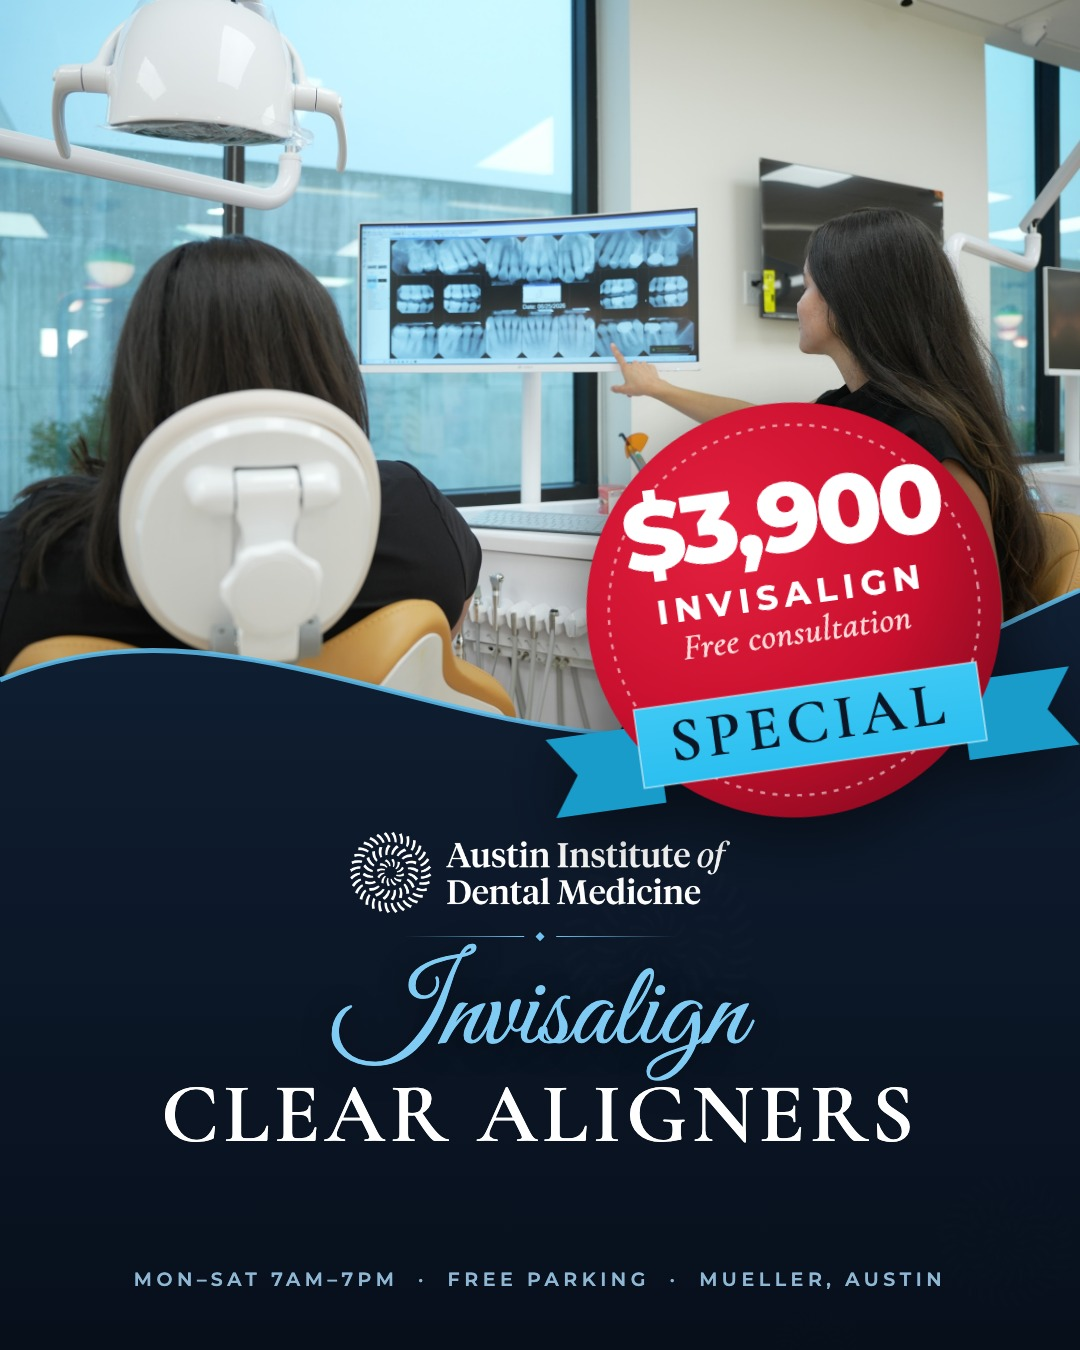
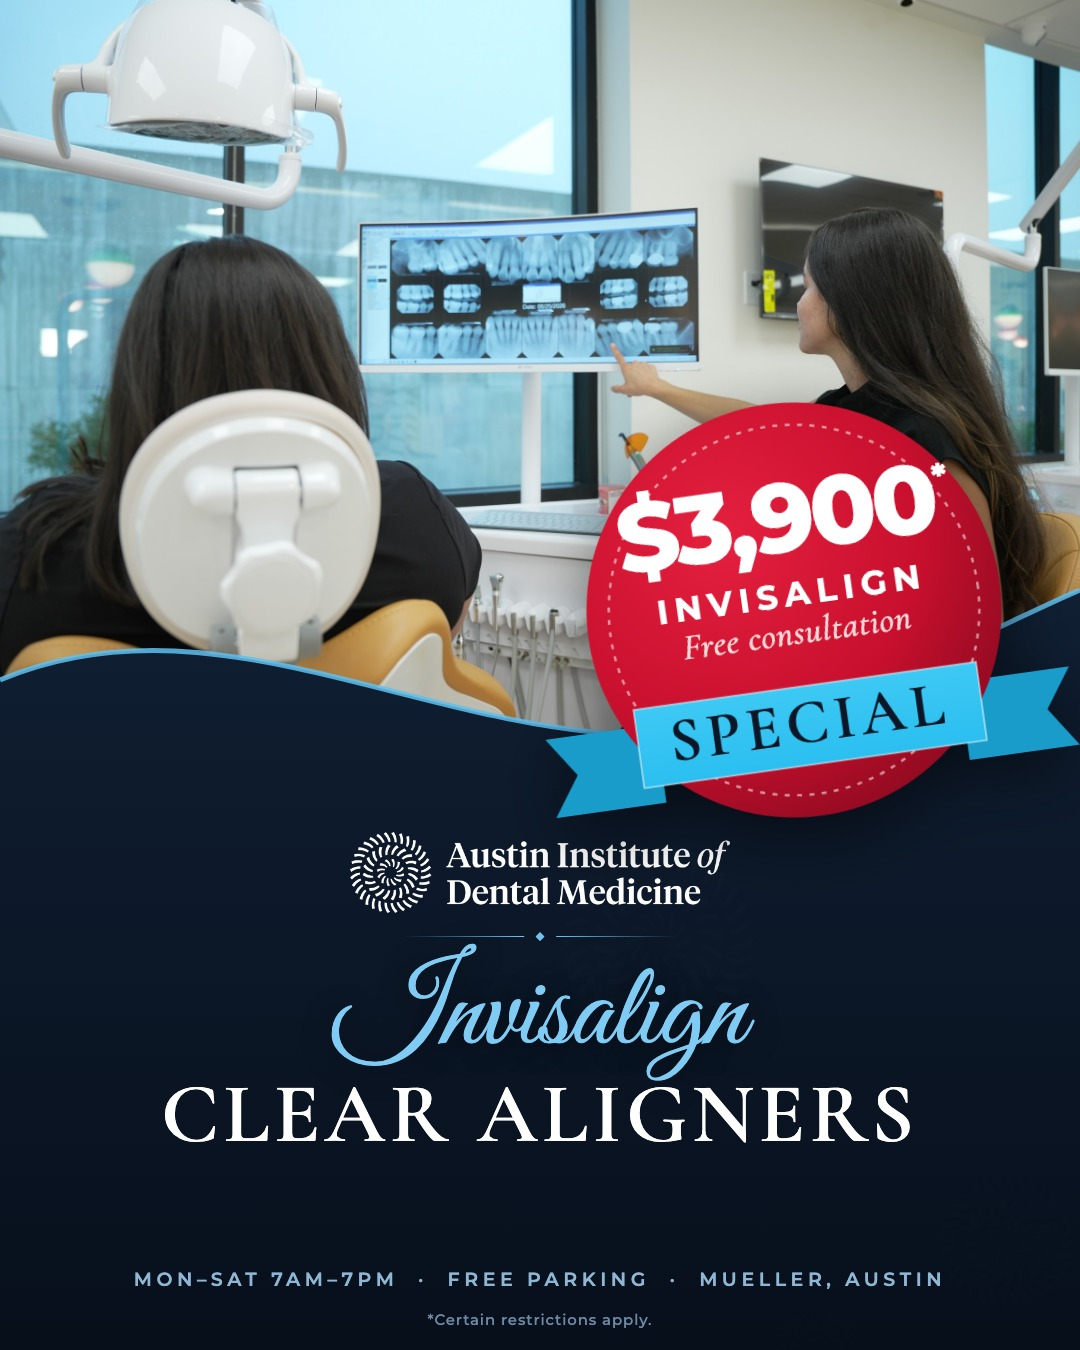
Add price asterisk and restrictions fine print to every offer creative

Changed region(s): [[0.55, 0.3422, 0.8861, 0.4356], [0.4889, 0.9644, 0.5806, 0.9956], [0.3972, 0.9644, 0.4583, 0.9956]]

diff --git a/tools/meta/build_creatives.py b/tools/meta/build_creatives.py
@@ -103,7 +103,7 @@ SPECS = {
         badge='circle', price='$100', badge_top='PACIENTE NUEVO', badge_bottom='PROMOCI&Oacute;N',
         badge_note='Examen + radiografías',
         script='Ahora aceptamos', caps='Pacientes Nuevos',
-        tagline='', note='Hablamos español',
+        tagline='', note='Hablamos español', fine='*Aplican ciertas restricciones.',
         hours='Lun&ndash;S&aacute;b 7am&ndash;7pm &nbsp;&middot;&nbsp; Estacionamiento gratis &nbsp;&middot;&nbsp; Mueller, Austin',
     ),
     'c2': dict(
@@ -133,6 +133,8 @@ body{width:1080px;height:1350px;overflow:hidden;background:#0b1727;font-family:'
 .tag{position:absolute;left:0;right:0;top:1170px;text-align:center;font-style:italic;font-weight:500;font-size:40px;color:#9fd8f7}
 .note{position:absolute;left:0;right:0;top:calc(1168px + var(--y));text-align:center;font-style:italic;font-weight:500;font-size:34px;color:#9fd8f7}
 .a1 .note{top:1214px;font-size:32px}
+.badge .p sup{font-size:.34em;vertical-align:baseline;position:relative;top:-1.3em;margin-left:.03em;font-weight:800}
+.fine{position:absolute;left:0;right:0;top:1310px;text-align:center;font-family:Montserrat,sans-serif;font-weight:500;font-size:15px;letter-spacing:.06em;color:#6f8aa6}
 .hours{position:absolute;left:0;right:0;top:1268px;text-align:center;font-family:Montserrat,sans-serif;font-weight:600;font-size:19px;letter-spacing:.24em;color:#8fb6d3;text-transform:uppercase}
 
 
@@ -171,7 +173,7 @@ body{width:1080px;height:1350px;overflow:hidden;background:#0b1727;font-family:'
 .circle .n{margin-top:calc(var(--s) * .02)}
 .circle.long .txt{padding-bottom:calc(var(--s) * .24)}
 .badge .pre{font-weight:700;font-size:calc(var(--s) * .055);letter-spacing:.3em;color:#ffd9d9;margin-bottom:calc(var(--s) * -.01)}
-.circle.xlong .p{font-size:calc(var(--s) * .195);letter-spacing:-.04em}
+.circle.xlong .p{font-size:calc(var(--s) * .18);letter-spacing:-.04em}
 .circle.widelabel .t{font-size:calc(var(--s) * .062);letter-spacing:.16em}
 .circle.long .p{font-size:calc(var(--s) * .23);letter-spacing:-.04em}
 .circle.long .n{margin-top:calc(var(--s) * .01)}
@@ -275,8 +277,9 @@ def html(s):
 {tag}
 {'<div class="note">' + s['note'] + '</div>' if s.get('note') else ''}
 <div class="hours">{s.get('hours', 'Mon&ndash;Sat 7am&ndash;7pm &nbsp;&middot;&nbsp; Free parking &nbsp;&middot;&nbsp; Mueller, Austin')}</div>
+<div class="fine">{s.get('fine', '*Certain restrictions apply.')}</div>
 <div class="badge {s['badge']}{' long' if len(s['price']) > 4 else ''}{' xlong' if len(s['price']) > 6 else ''}{' widelabel' if len(s['badge_top']) > 12 else ''}" style="{s.get('badge_style','')}">{badge_svg}<div class="txt">
-{'' if s['badge'] == 'circle' else '<div class="t">' + s['badge_top'] + '</div>'}{'<div class="pre">' + s['pre'] + '</div>' if s.get('pre') else ''}<div class="p">{s['price']}</div>{'<div class="t">' + s['badge_top'] + '</div>' if s['badge'] == 'circle' else '<div class="b">' + s['badge_bottom'] + '</div>'}<div class="n">{s['badge_note']}</div>
+{'' if s['badge'] == 'circle' else '<div class="t">' + s['badge_top'] + '</div>'}{'<div class="pre">' + s['pre'] + '</div>' if s.get('pre') else ''}<div class="p">{s['price']}<sup>*</sup></div>{'<div class="t">' + s['badge_top'] + '</div>' if s['badge'] == 'circle' else '<div class="b">' + s['badge_bottom'] + '</div>'}<div class="n">{s['badge_note']}</div>
 </div></div>
 </body></html>'''
 
